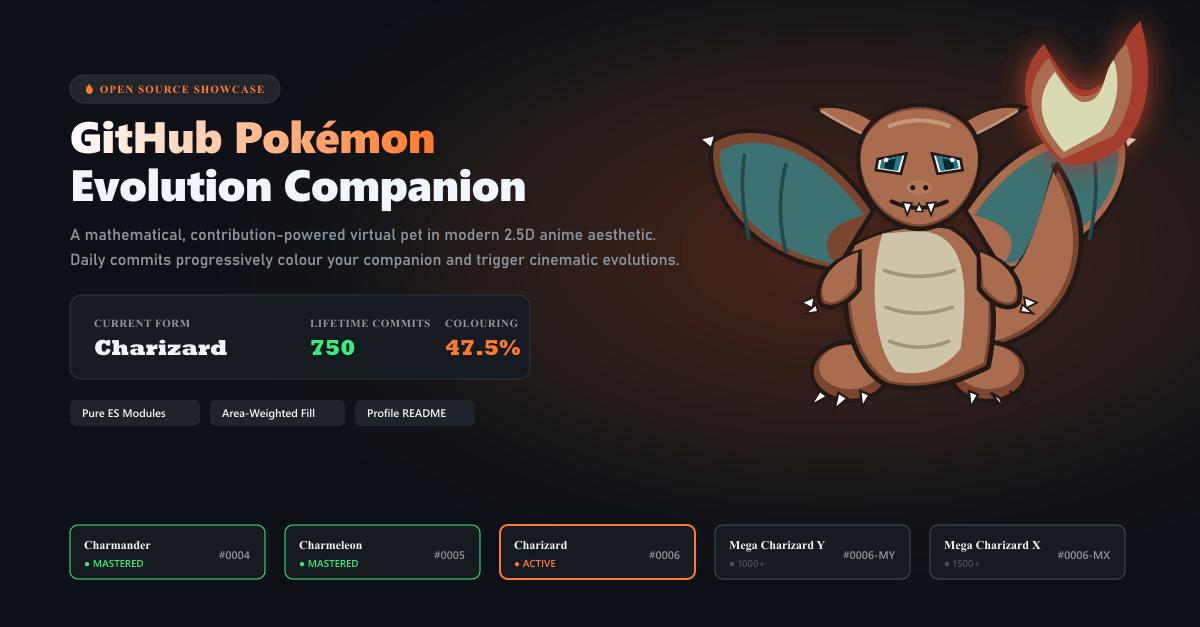
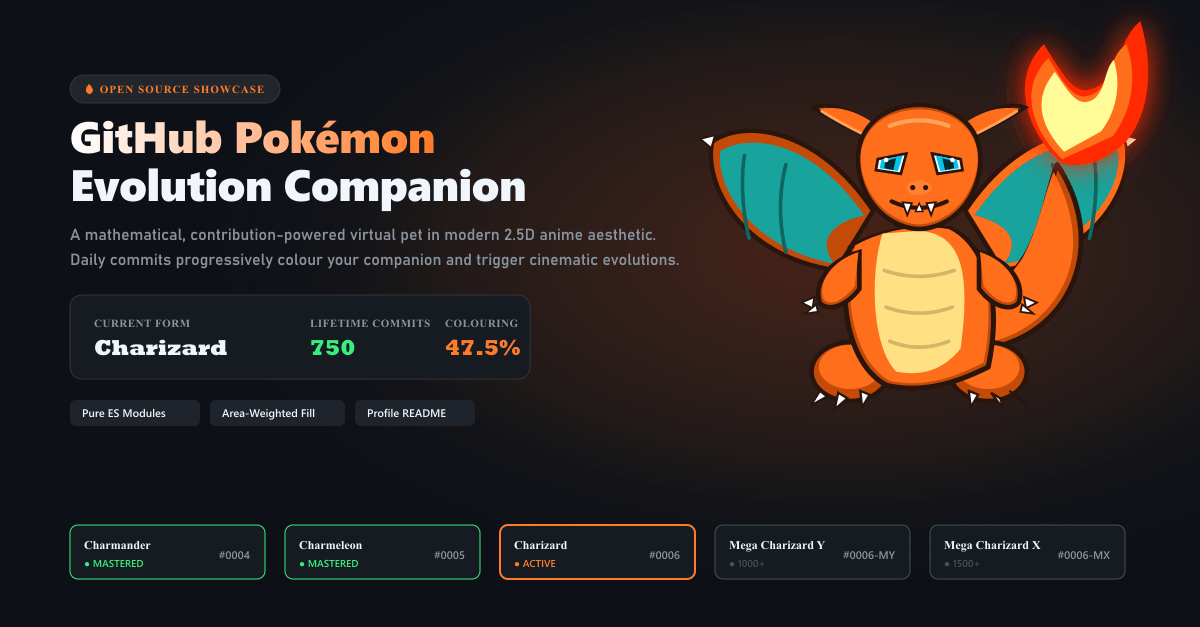
fix(coloring): restore full authentic vibrant pokemon colors by default

Changed region(s): [[0.5858, 0.0303, 0.9867, 0.6364]]

diff --git a/src/engine/coloring.js b/src/engine/coloring.js
@@ -1,6 +1,7 @@
 /**
  * @file Mathematical Progressive Colouring Engine.
  * Implements area-weighted, anatomically sequenced, mathematically deterministic progressive colouring.
+ * Defaults to authentic, vibrant Pokémon anime coloration with contribution-based flame and stage progression.
  */
 
 import { MONOCHROME_PALETTE } from "../pokemon/definitions.js";
@@ -59,6 +60,8 @@ export function blendHex(hexA, hexB, t) {
  *
  * @param {typeof import("../pokemon/definitions.js").EVOLUTION_TIERS[0]} form
  * @param {number} stageProgress - Normalized progress [0, 1] within the current evolution stage
+ * @param {object} [options]
+ * @param {boolean} [options.blend=false] - Whether to apply monochrome desaturation blend (default: false for vibrant colors)
  * @returns {{
  *   stageProgress: number,
  *   overallPercentage: number,
@@ -75,7 +78,7 @@ export function blendHex(hexA, hexB, t) {
  *   palette: Record<string, string>
  * }}
  */
-export function calculateProgressiveColoring(form, stageProgress) {
+export function calculateProgressiveColoring(form, stageProgress, options = {}) {
   const safeProgress = clamp(stageProgress, 0, 1);
   const sortedRegions = [...form.regions].sort((a, b) => a.priority - b.priority);
 
@@ -118,13 +121,26 @@ export function calculateProgressiveColoring(form, stageProgress) {
 
   const overallPercentage = Number((weightedSum * 100).toFixed(1));
 
-  // Compute active dynamic palette blending monochrome and target colors
+  // Compute active dynamic palette:
+  // If progressive desaturation blend is explicitly requested (options.blend === true), blend with monochrome;
+  // otherwise, present the full, authentic, vibrant Pokémon anime colors!
   const dynamicPalette = {};
-  for (const key of Object.keys(form.colors)) {
-    const monoColor = MONOCHROME_PALETTE[key] || MONOCHROME_PALETTE.base;
-    const targetColor = form.colors[key];
-    // Blend according to safeProgress with smoothstep
-    dynamicPalette[key] = blendHex(monoColor, targetColor, smoothstep(safeProgress));
+  if (options.blend === true) {
+    for (const key of Object.keys(form.colors)) {
+      // Core vital features (eyes, tail flame, mouth flame) always stay 100% lit and vibrant
+      if (key.includes("flame") || key === "eye" || key === "mouthFlame") {
+        dynamicPalette[key] = form.colors[key];
+      } else {
+        const monoColor = MONOCHROME_PALETTE[key] || MONOCHROME_PALETTE.base;
+        const targetColor = form.colors[key];
+        dynamicPalette[key] = blendHex(monoColor, targetColor, smoothstep(safeProgress));
+      }
+    }
+  } else {
+    // Authentic, fully saturated, vibrant Pokémon coloration
+    for (const key of Object.keys(form.colors)) {
+      dynamicPalette[key] = form.colors[key];
+    }
   }
 
   return {

diff --git a/src/pokemon/definitions.js b/src/pokemon/definitions.js
@@ -49,10 +49,10 @@ export const EVOLUTION_TIERS = Object.freeze([
     description:
       "Tough fights make it fiery. When it gets agitated, it spouts bluish-white flames.",
     colors: {
-      base: "#cc2e3b",
-      shadow: "#941a24",
-      highlight: "#f04856",
-      belly: "#ffdd99",
+      base: "#d82638",
+      shadow: "#9c1724",
+      highlight: "#ff4d5e",
+      belly: "#fedb8b",
       bellyShadow: "#d6b060",
       eye: "#2ecc71",
       flameInner: "#fff466",
@@ -81,14 +81,14 @@ export const EVOLUTION_TIERS = Object.freeze([
     description:
       "It spits fire that is hot enough to melt boulders. Known to cause forest fires unintentionally.",
     colors: {
-      base: "#ee6c25",
-      shadow: "#b94710",
-      highlight: "#ff914d",
-      belly: "#fae29c",
+      base: "#ff6e1a",
+      shadow: "#c44a07",
+      highlight: "#ffa359",
+      belly: "#ffe082",
       bellyShadow: "#d1b66b",
-      wingInner: "#2a8f85",
-      wingShadow: "#1a6058",
-      eye: "#00b4d8",
+      wingInner: "#18a49c",
+      wingShadow: "#0f6661",
+      eye: "#00c4ef",
       flameInner: "#fffb99",
       flameOuter: "#ff2a00",
       outline: "#2a150c"
@@ -152,18 +152,18 @@ export const EVOLUTION_TIERS = Object.freeze([
     description:
       "The overwhelming power that fills its entire body causes it to turn black and create intense blue flames.",
     colors: {
-      base: "#323846",
-      shadow: "#212530",
-      highlight: "#4c556b",
-      belly: "#7ad9ff",
-      bellyShadow: "#4ea6d1",
+      base: "#2b323f",
+      shadow: "#181c24",
+      highlight: "#485367",
+      belly: "#40c4ff",
+      bellyShadow: "#288ab8",
       wingInner: "#252b37",
       wingSpikes: "#8fe3ff",
-      eye: "#ff3b30",
+      eye: "#ff2d55",
       flameInner: "#ffffff",
       flameMid: "#00f2fe",
       flameOuter: "#0984e3",
-      mouthFlame: "#00d2d3",
+      mouthFlame: "#00f2fe",
       outline: "#13161c"
     },
     regions: [

diff --git a/src/engine/evolution.js b/src/engine/evolution.js
@@ -31,7 +31,7 @@ import { clamp, calculateProgressiveColoring } from "./coloring.js";
  *   coloringState: ReturnType<typeof calculateProgressiveColoring>
  * }}
  */
-export function evaluateEvolution(lifetimeContributions = 0) {
+export function evaluateEvolution(lifetimeContributions = 0, options = {}) {
   const safeContributions = Math.max(0, Number(lifetimeContributions) || 0);
 
   let currentTier = EVOLUTION_TIERS[0];
@@ -66,7 +66,7 @@ export function evaluateEvolution(lifetimeContributions = 0) {
   const stageProgress = clamp(stageContributions / requiredContributions, 0, 1);
 
   // Compute mathematical progressive coloring for current form
-  const coloringState = calculateProgressiveColoring(currentTier, stageProgress);
+  const coloringState = calculateProgressiveColoring(currentTier, stageProgress, options);
 
   // Build completed evolution history
   const evolutionHistory = [];

diff --git a/scripts/server.js b/scripts/server.js
@@ -150,3 +150,4 @@ server.listen(PORT, () => {
   console.log(`▶ Press Ctrl+C to stop the server`);
   console.log(`======================================================\n`);
 });
+

diff --git a/app/index.html b/app/index.html
@@ -814,3 +814,4 @@
   </script>
 </body>
 </html>
+
